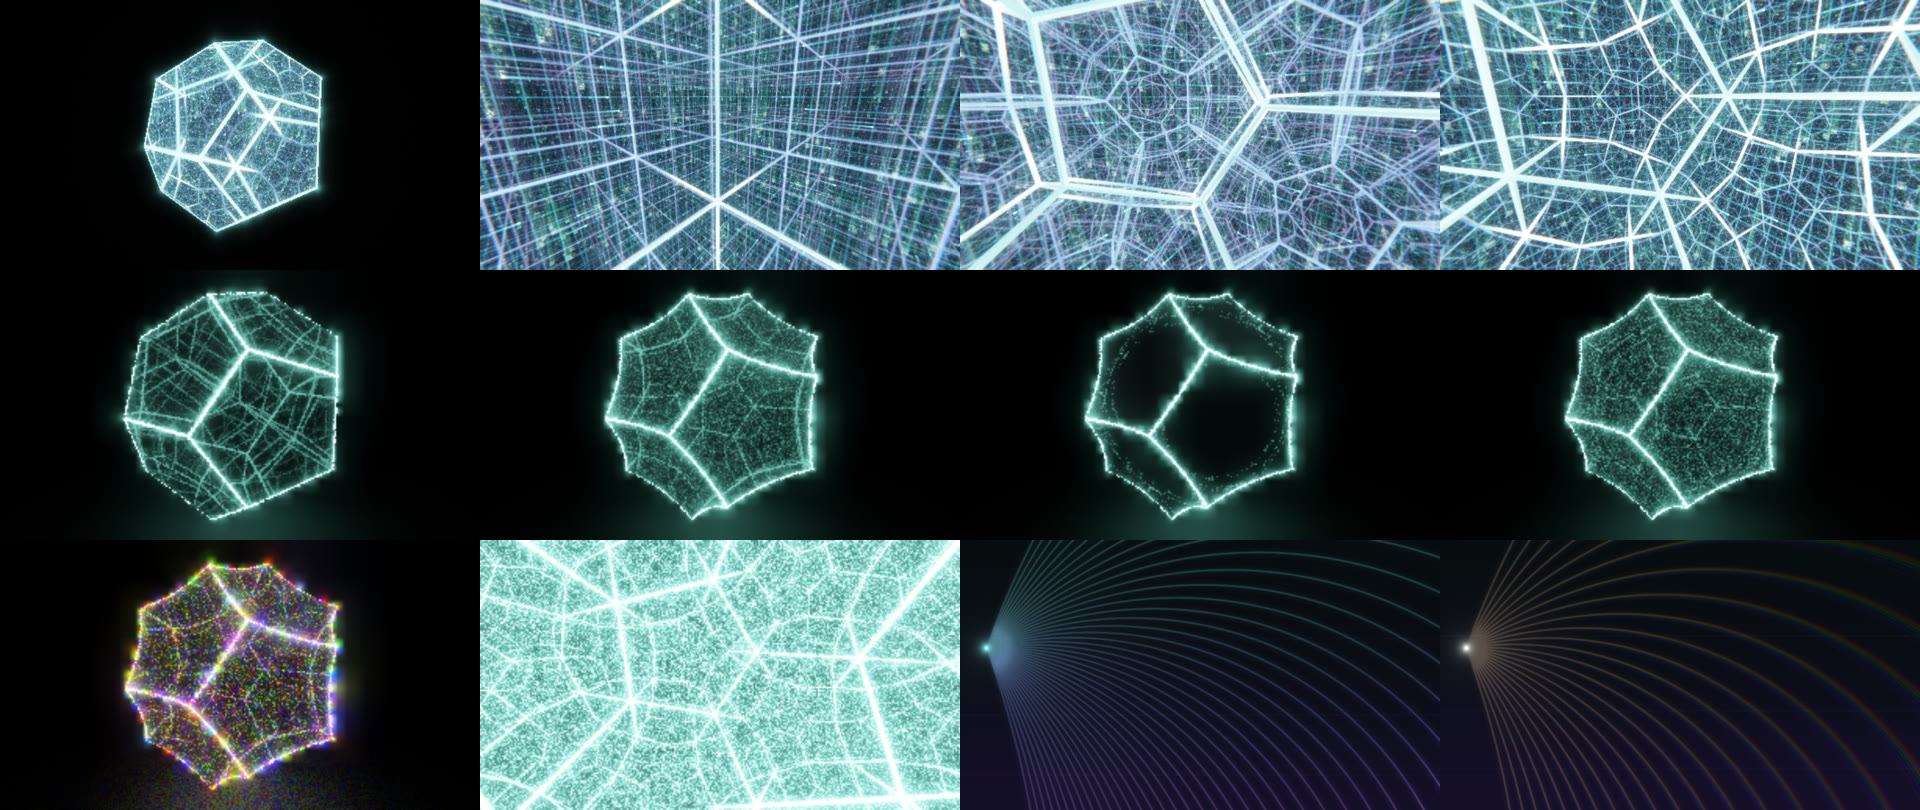
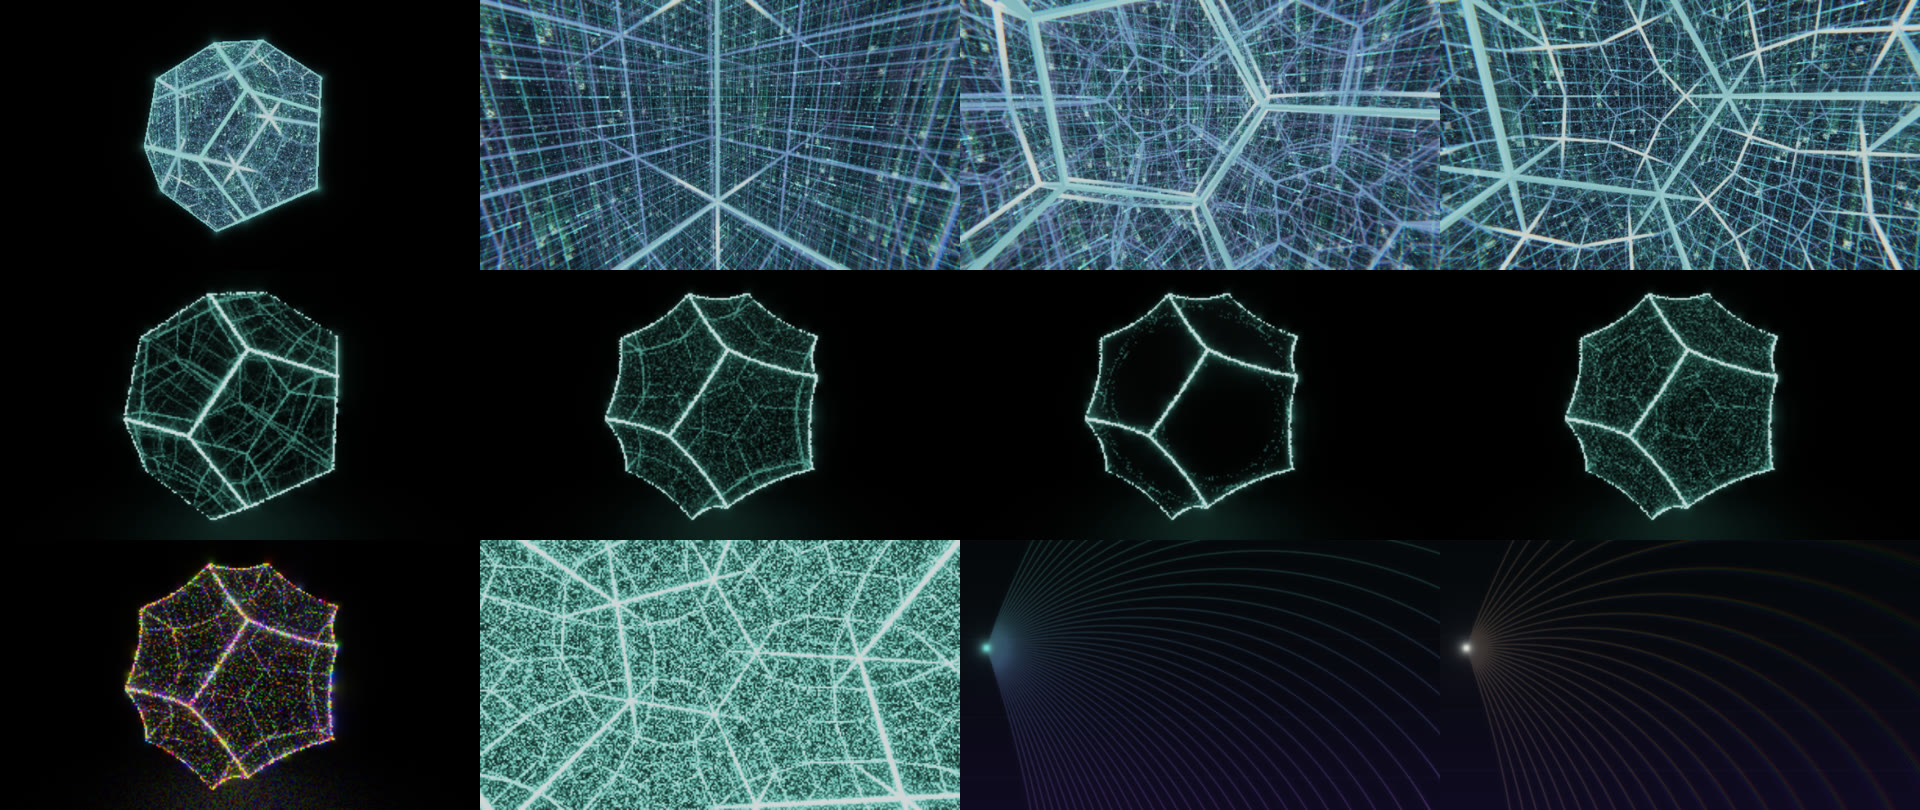
Increase optical contrast and restrain bloom and highlights

diff --git a/demos/infinity/main.cpp b/demos/infinity/main.cpp
@@ -31,7 +31,14 @@ constexpr const char* names[] = {"HOLD INFINITY / MIRROR SCULPTURE",
                                  "GRADIENT INDEX / SPECTRUM"};
 constexpr const char* composite = R"GLSL(#version 410 core
 in vec2 vUv; out vec4 outColor; uniform sampler2D uImg; uniform float uFade;
-void main(){outColor=vec4(texture(uImg,vUv).rgb*uFade,1.0);}
+void main(){
+  vec3 c=pow(max(texture(uImg,vUv).rgb,vec3(0.0)),vec3(1.12));
+  // Hue-preserving shoulder: keep white-hot cores below display white.
+  float peak=max(c.r,max(c.g,c.b));
+  float mapped=peak<=0.65?peak:0.65+0.25*(1.0-exp(-(peak-0.65)/0.25));
+  c*=mapped/max(peak,1e-6);
+  outColor=vec4(c*uFade,1.0);
+}
 )GLSL";
 struct Target {
   GLuint texture = 0, fbo = 0;
@@ -170,7 +177,7 @@ class Infinity final : public de::Demo {
     one(p, "uEnergy", cue_.energy);
     one(p, "uMirror", .86f);
     one(p, "uFog", .05f);
-    one(p, "uGlow", 2.1f + .7f * cue_.bass);
+    one(p, "uGlow", 1.35f + .25f * cue_.bass);
     one(p, "uFX", scene == 0 ? 1.6f : .8f);
     float pulses[24];
     infinity_sync::pulses(frame_.sync.beat, cue_.bass, pulses);
@@ -186,9 +193,9 @@ class Infinity final : public de::Demo {
     glUseProgram(post_);
     integer(post_, "uImg", 0);
     two(post_, "uRes", float(w), float(h));
-    one(post_, "uBloom", .5f + .25f * cue_.mid);
-    one(post_, "uStar", scene == 0 ? .12f : .04f);
-    one(post_, "uBeat", cue_.beat);
+    one(post_, "uBloom", .16f + .08f * cue_.mid);
+    one(post_, "uStar", scene == 0 ? .035f : .01f);
+    one(post_, "uBeat", .55f * cue_.beat);
     quad();
   }
   void instrument(int scene, int w, int h, const Camera& cam, bool resized) {
@@ -230,9 +237,9 @@ class Infinity final : public de::Demo {
     output_.bind();
     glUseProgram(show_);
     integer(show_, "uAcc", 0);
-    one(show_, "uExposure", float(samples_));
+    one(show_, "uExposure", 1.25f * float(samples_));
     two(show_, "uScale", 1, 1);
-    one(show_, "uBloom", .45f + .3f * cue_.bass);
+    one(show_, "uBloom", .14f + .08f * cue_.bass);
     quad();
   }
   void common(GLuint p, float aspect, float k, int rays, int nw) {
@@ -286,7 +293,7 @@ class Infinity final : public de::Demo {
     one(rays_, "uNMax", 1 / ((1 - k) + k * .045f / 1.045f));
     for (int layer = 0; layer < 2; ++layer) {
       one(rays_, "uWidth", layer ? 1.3f : 7.f);
-      one(rays_, "uIntensity", (layer ? .85f : .16f) * (1 + .5f * cue_.treble));
+      one(rays_, "uIntensity", (layer ? .72f : .08f) * (1 + .25f * cue_.treble));
       one(rays_, "uSharp", layer ? 1.6f : 2.2f);
       glDrawArraysInstanced(GL_TRIANGLE_STRIP, 0, 1024, count * nw);
     }

diff --git a/demos/infinity/README.md b/demos/infinity/README.md
@@ -86,3 +86,8 @@ Eight readings establish the timing estimate. A smoothed measurement, a dead ban
 `--infinity-fps N` accepts 24–144 and sets a GPU-time target, not a hard frame-rate cap or guarantee. Explicit `--infinity-pixels N` pins the budget, making existing captures and benchmarks reproducible; put `--infinity-adaptive` after it to use that value as an adaptive ceiling. Reference mode and `--still` always bypass adaptation. Stationary accumulation therefore still reaches 400 samples without being reset by quality changes.
 
 On the development M1 Pro, a 160-frame printed-layer run reduced its pixel fraction to 0.8 and then 0.64, reporting a 17.44 ms mean GPU time across the run. This includes the higher-cost settling frames and is not an A/B speedup claim. Tests cover budget limits, recovery with headroom, stale/invalid query rejection and near-target stability. Actual GPU checks verify pinned budgets, stationary convergence, quiet ordinary playback and all 12 scenes.
+
+
+## Contrast and glare
+
+The default grade now uses darker midtones and a hue-preserving highlight shoulder. Bloom, star glare and music-driven light boosts are restrained, and glass exposure is lowered before display mapping. The ray lab keeps a narrow luminous core with a quieter halo. These presentation changes preserve the optical calculations and music timing.

diff --git a/CHANGELOG.md b/CHANGELOG.md
@@ -1,3 +1,10 @@
+# Hold Infinity contrast pass — 2026-10-22
+
+- Reduce chamber/glass bloom, star glare and beat-driven light amplification.
+- Darken midtones and apply a hue-preserving highlight shoulder so bright edges retain detail instead of approaching display white.
+- Reduce the ray-lab halo while keeping its narrow luminous core readable.
+- Refresh the twelve-scene native capture sheet; all GPU scenes and both test suites pass.
+
 # Hold Infinity 1.2 adaptive GPU playback — 2026-10-22
 
 - Drive per-scene pixel budgets from non-blocking completed GPU queries, with bounded quality, smoothed timing, hysteresis and resize cooldown.
